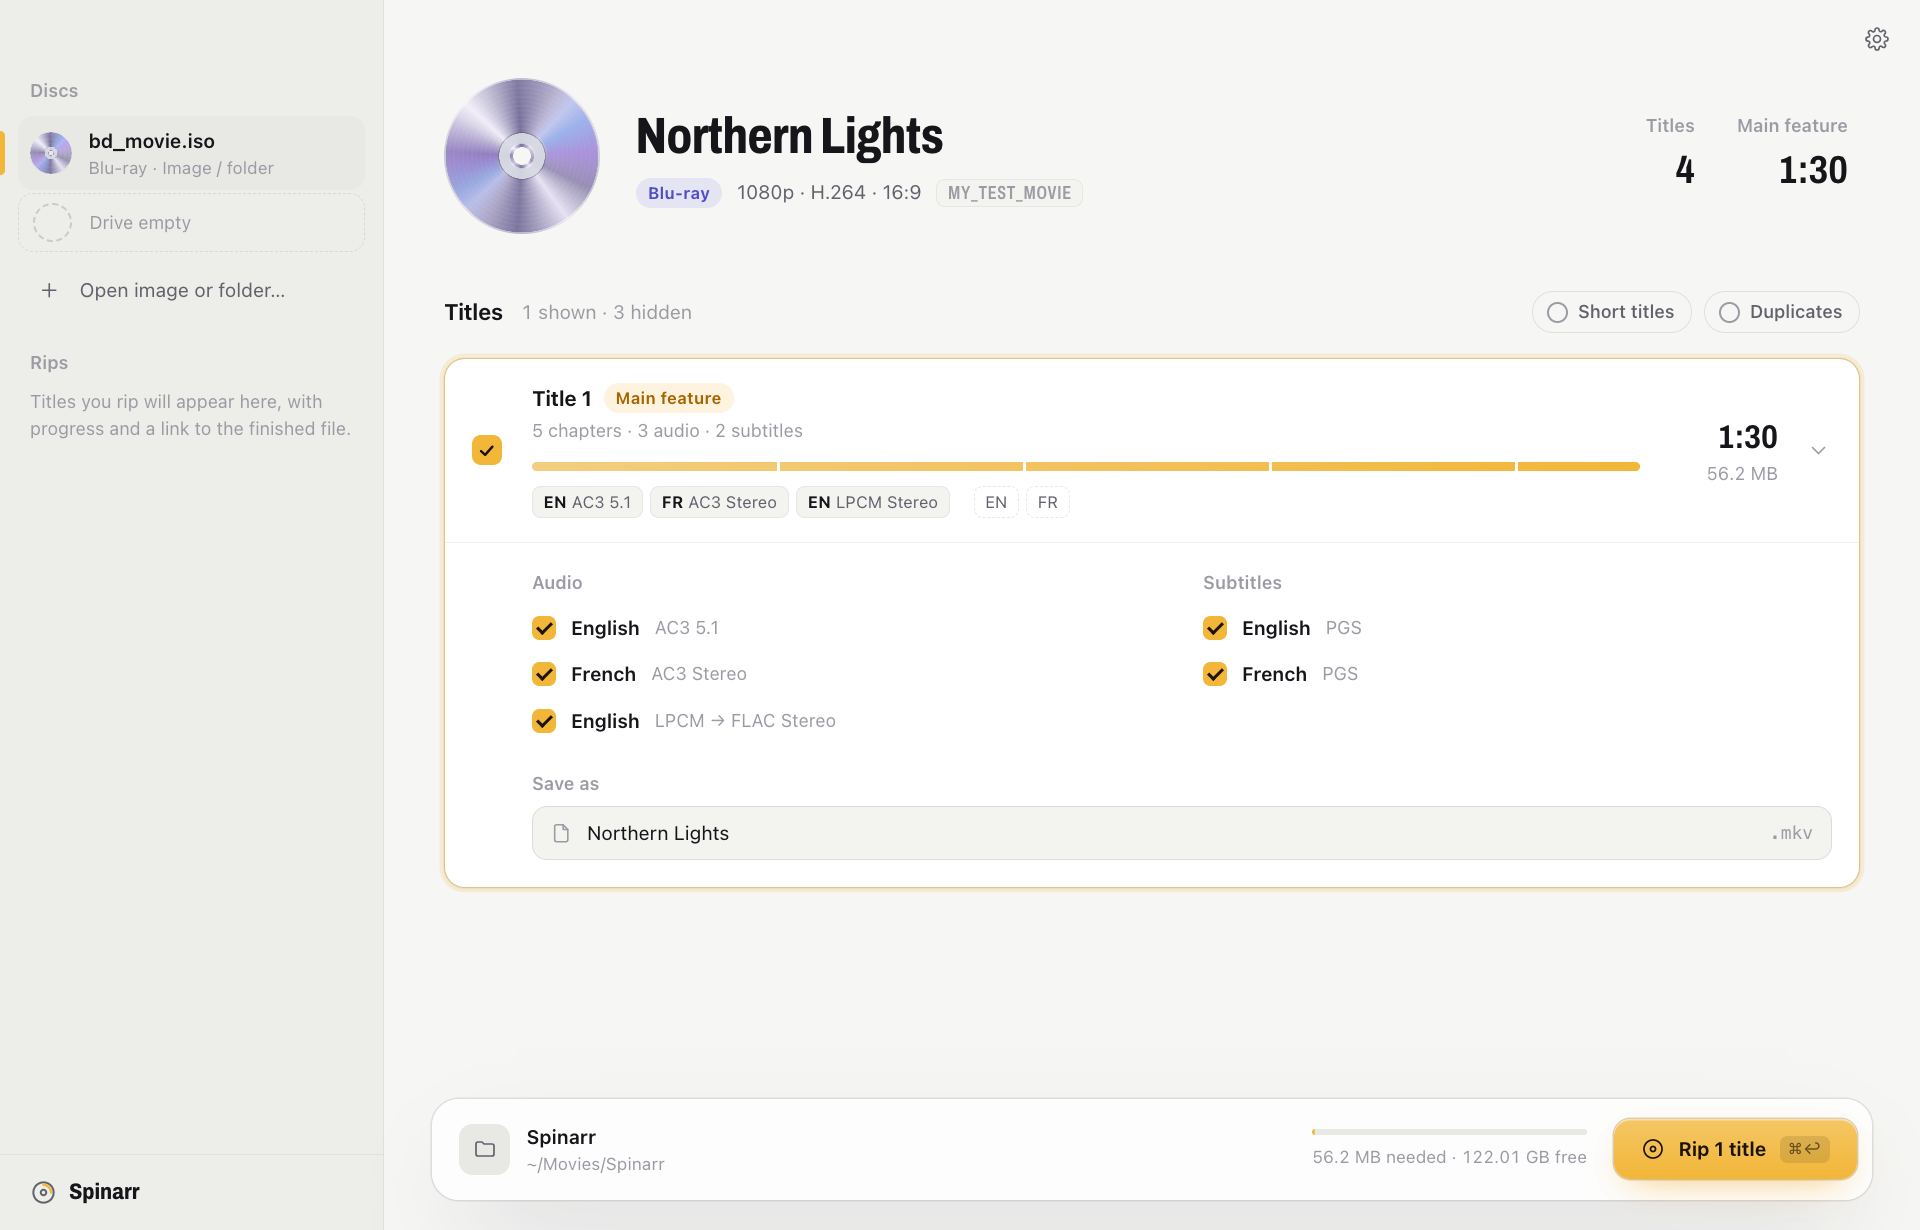
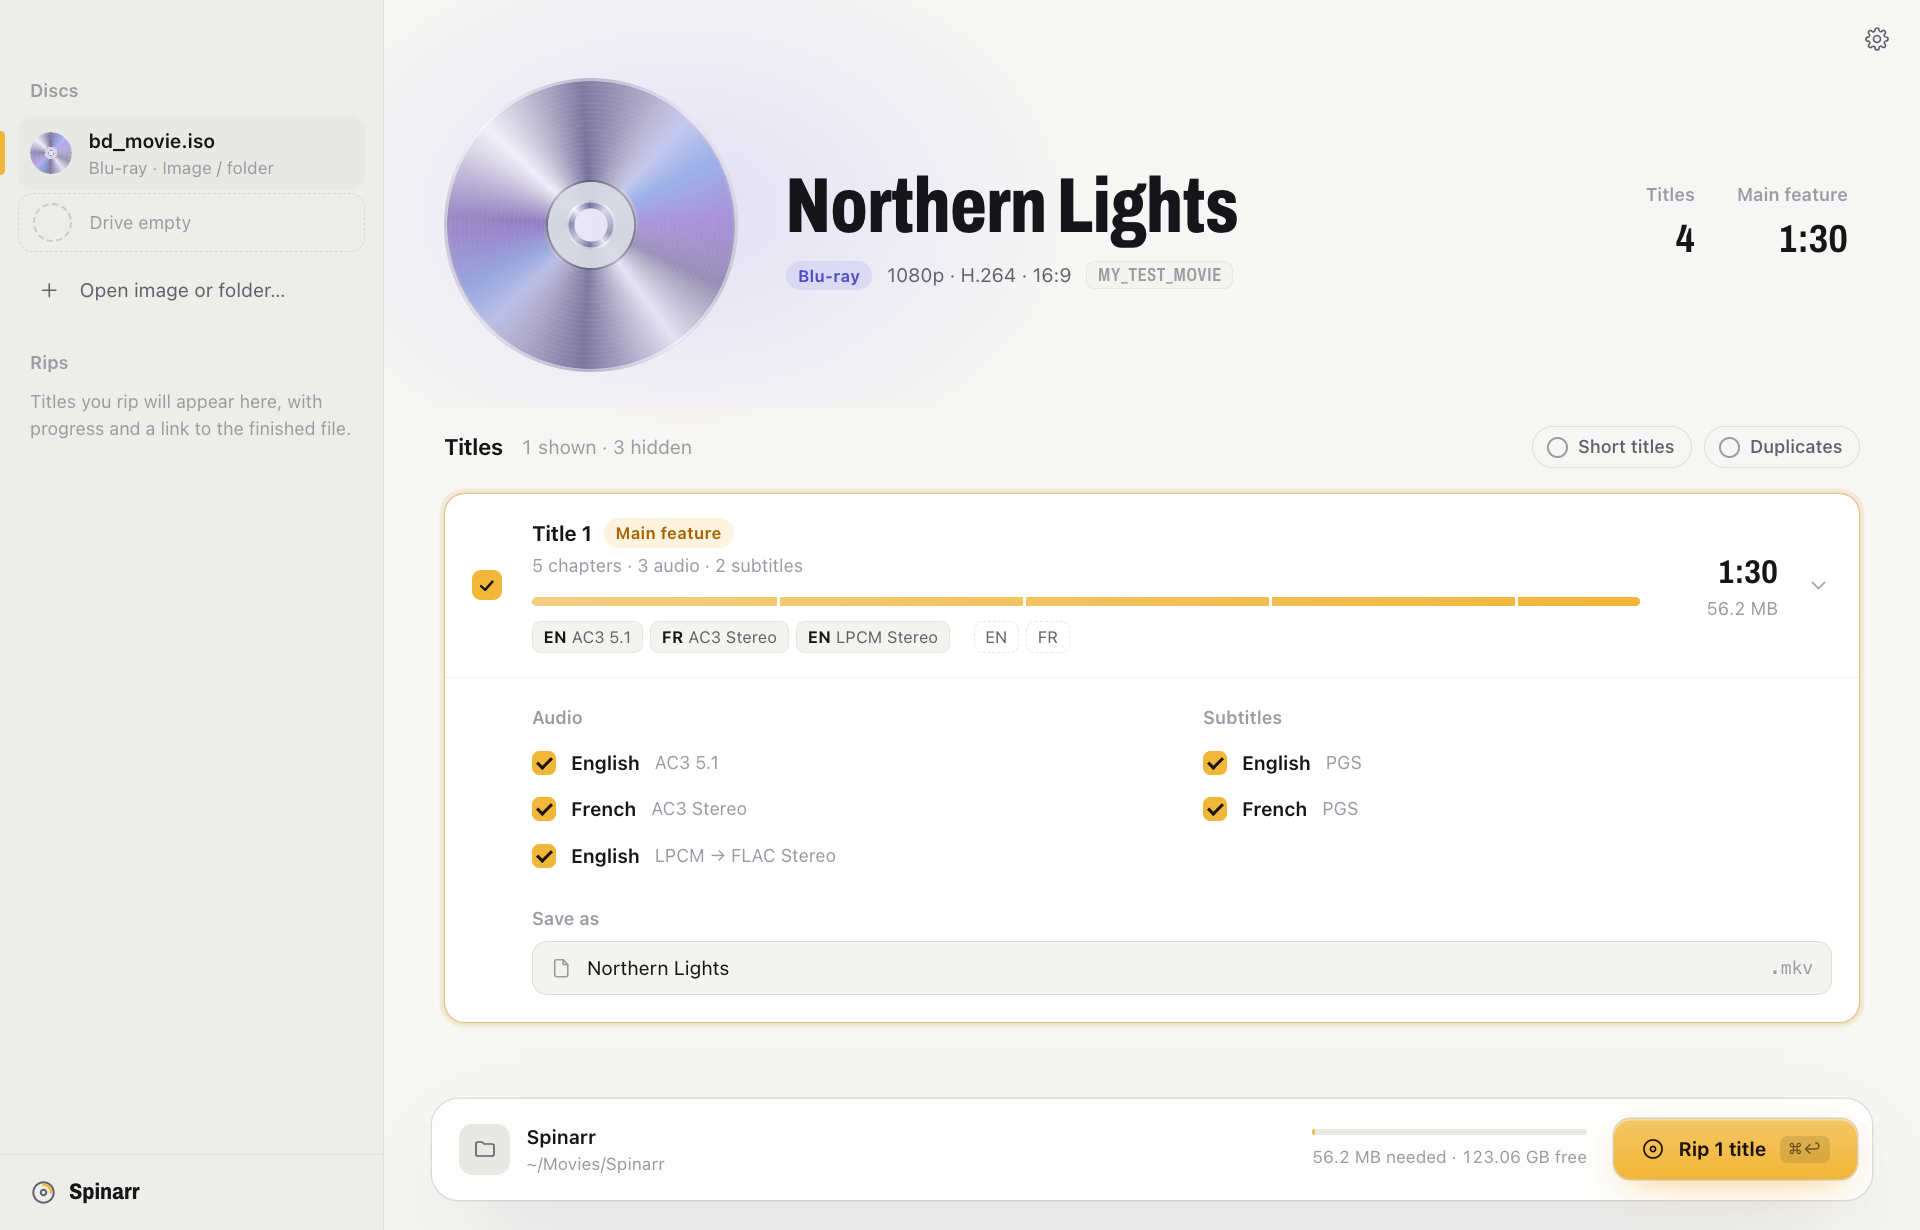
Make the disc the progress display
Discs are read from the hub outward, so while ripping the header disc fills
from the hub to the rim:
- a gold read band
- a bright laser line at the leading edge
- the unread area dimmed
- the disc spinning at 196 px

A 64 px condensed percentage with speed and time left replaces the title stats.

Also:
- bigger condensed disc titles (38 px for long names)
- a soft glow behind the header, warm for DVD and violet for Blu-ray
- a step-down for narrow windows
- regenerated README screenshots

diff --git a/app/renderer/styles.css b/app/renderer/styles.css
@@ -361,15 +361,42 @@ kbd {
    ========================================================================== */
 .scroll { flex: 1; overflow-y: auto; padding-bottom: 120px; scroll-padding-top: 64px; }
 
-.disc-head { display: flex; gap: 24px; align-items: center; padding: 52px 40px 26px; }
-.disc-head .disc { --size: 104px; }
+.disc-head { position: relative; display: flex; gap: var(--space-6); align-items: center; padding: var(--space-8) var(--space-7) var(--space-5); isolation: isolate; }
+/* the disc's mood behind the header: warm for DVD, violet for Blu-ray */
+.disc-head::before {
+  content: ""; position: absolute; z-index: -1; left: -60px; top: -40px; width: 520px; height: 360px; pointer-events: none;
+  background: radial-gradient(closest-side, color-mix(in srgb, var(--accent) 16%, transparent), transparent);
+  transition: opacity 0.6s var(--ease); opacity: 0.8;
+}
+.disc-head.bd::before { background: radial-gradient(closest-side, rgba(130, 110, 255, 0.2), transparent); }
+.disc-head.ripping::before { opacity: 1; }
+.disc-wrap { --read: 0; position: relative; flex: none; width: 196px; height: 196px; }
+.disc-head .disc { --size: 196px; }
+/* read band: from the hub (31%) outward to the rim (97%). Read area warm, laser edge bright, unread area dimmed. */
+.disc-read {
+  position: absolute; inset: 0; border-radius: 50%; pointer-events: none; opacity: 0; transition: opacity 0.4s var(--ease);
+  background: radial-gradient(circle closest-side,
+    transparent 0 31%,
+    color-mix(in srgb, var(--accent) 42%, transparent) 31% calc(31% + var(--read) * 66%),
+    #fff3d6 calc(31% + var(--read) * 66%) calc(32% + var(--read) * 66%),
+    color-mix(in srgb, var(--accent-hi) 70%, transparent) calc(32% + var(--read) * 66%) calc(33.2% + var(--read) * 66%),
+    rgba(0, 0, 0, 0.26) calc(33.2% + var(--read) * 66%) 97%,
+    transparent 97.5%);
+  -webkit-mask: radial-gradient(circle closest-side, transparent 0 11%, #000 11.6%);
+}
+.disc-head.ripping .disc-read { opacity: 1; }
+.readout { flex: none; display: flex; flex-direction: column; align-items: flex-end; gap: 2px; padding-right: var(--space-2); }
+.r-pct { font-family: var(--display); font-weight: 800; font-stretch: 70%; font-size: 64px; line-height: 0.95; color: var(--accent-text); font-variant-numeric: tabular-nums; }
+.r-sub { display: flex; flex-direction: column; align-items: flex-end; color: var(--text-2); font-size: 12.5px; font-variant-numeric: tabular-nums; }
+.r-what { color: var(--text); font-weight: 600; }
 .disc-title { flex: 1; min-width: 0; }
 .disc-title input {
   width: 100%; background: transparent; border: 1px solid transparent; border-radius: 10px;
-  font-family: var(--display); font-size: 34px; font-weight: 760; font-stretch: 78%; letter-spacing: -0.01em; line-height: 1.1;
+  font-family: var(--display); font-size: 52px; font-weight: 800; font-stretch: 72%; letter-spacing: -0.005em; line-height: 1;
   padding: 2px 10px; margin: 0 0 6px -11px; text-overflow: ellipsis;
   transition: border-color 0.15s, background 0.15s;
 }
+.disc-title input.long { font-size: 38px; }
 .disc-title input:hover { border-color: var(--line); }
 .disc-title input:focus { border-color: var(--accent-line); background: var(--surface); box-shadow: 0 0 0 4px var(--accent-soft); }
 .disc-meta { display: flex; gap: 10px; flex-wrap: wrap; align-items: center; color: var(--text-2); }
@@ -684,6 +711,10 @@ dialog::backdrop { background: var(--scrim); backdrop-filter: blur(6px); animati
 
 @media (max-width: 1100px) {
   .hero-stats { display: none; }
+  .disc-wrap { width: 140px; height: 140px; }
+  .disc-head .disc { --size: 140px; }
+  .disc-title input { font-size: 40px; }
+  .r-pct { font-size: 48px; }
   .features { grid-template-columns: repeat(3, minmax(0, 150px)); gap: 18px; }
   .cap-bar { display: none; }
 }

diff --git a/app/renderer/app.js b/app/renderer/app.js
@@ -158,15 +158,19 @@ function renderMain() {
 
   main.innerHTML = `
     <div class="scroll">
-      <header class="disc-head">
-        <div class="disc ${bd ? 'bd' : ''}"></div>
+      <header class="disc-head ${bd ? 'bd' : ''}">
+        <div class="disc-wrap" aria-hidden="true"><div class="disc ${bd ? 'bd' : ''}"></div><div class="disc-read"></div></div>
         <div class="disc-title">
-          <input id="discName" value="${esc(state.discName)}" spellcheck="false" title="Used for file names and the MKV title" aria-label="Disc name" />
+          <input id="discName" class="${state.discName.length > 22 ? 'long' : ''}" value="${esc(state.discName)}" spellcheck="false" title="Used for file names and the MKV title" aria-label="Disc name" />
           <div class="disc-meta">
             <span class="badge fmt ${bd ? 'bd' : ''}">${bd ? 'Blu-ray' : 'DVD'}</span>
             ${first ? `<span class="spec">${[first.video.standard, first.video.codec, first.video.aspect].filter((x) => x && x !== '?').map(esc).join(' · ')}</span>` : ''}
             <span class="vol" title="Volume label">${esc(d.label || '—')}</span>
           </div>
+        </div>
+        <div class="readout" role="status" aria-live="off" hidden>
+          <span class="r-pct">0%</span>
+          <span class="r-sub"><b class="r-what"></b><span class="r-eta"></span></span>
         </div>
         <div class="hero-stats">
           <div><span class="k">Titles</span><span class="v">${d.titles.length}</span></div>
@@ -279,7 +283,23 @@ function actionBar() {
 // Live rip status inside each title card, updated in place so focus and typing survive.
 function updateRipStates() {
   // The one orchestrated moment: the disc in the header spins while one of its titles rips.
-  $('.disc-head')?.classList.toggle('ripping', state.queue.some((j) => j.source === state.source && j.state === 'ripping'));
+  // The disc is the progress display: discs are read from the hub outward, so the read
+  // band grows from the hub to the rim while the header disc spins.
+  const head = $('.disc-head');
+  const live = state.queue.find((j) => j.source === state.source && j.state === 'ripping');
+  if (head) {
+    head.classList.toggle('ripping', !!live);
+    $('.readout', head).hidden = !live;
+    $('.hero-stats', head).hidden = !!live;
+    const p = live ? Math.max(0, Math.min(1, live.progress || 0)) : 0;
+    $('.disc-wrap', head).style.setProperty('--read', p.toFixed(4));
+    if (live) {
+      const elapsed = (Date.now() - live.startedAt) / 1000;
+      $('.r-pct', head).textContent = `${Math.floor(p * 100)}%`;
+      $('.r-what', head).textContent = `Reading title ${live.title}`;
+      $('.r-eta', head).textContent = [live.speed ? `${live.speed.toFixed(1)}×` : '', p > 0.01 ? `${fmtEta((elapsed * (1 - p)) / p)} left` : 'starting'].filter(Boolean).join(', ');
+    }
+  }
   for (const row of $$('.title-row')) {
     const j = jobFor(+row.dataset.title);
     const st = j?.state;
@@ -587,7 +607,7 @@ document.addEventListener('change', (e) => {
 
 document.addEventListener('input', (e) => {
   const el = e.target;
-  if (el.id === 'discName') { state.discName = el.value; refreshFileNames(); }
+  if (el.id === 'discName') { state.discName = el.value; el.classList.toggle('long', el.value.length > 22); refreshFileNames(); }
   if (el.dataset.filename) state.fileNames.set(+el.dataset.filename, el.value);
 });
 

diff --git a/design-notes.md b/design-notes.md
@@ -25,3 +25,19 @@ A running journal for Spinarr's interface, so each design pass builds on the las
 - **Next time:**
   - Move the remaining raw px spacing onto `--space-*`.
   - Consider an optional Y2K skin behind `data-skin` (see the UI directions canvas).
+
+## 2026-10-09 · Standout pass
+- **Feedback:** "looks nice but not a standout." The identity pass was tidy, but nothing on screen was unique to a disc ripper.
+- **Kept, the signature move:** the disc is the progress display. Discs are read from the hub outward, so while ripping:
+  - a gold "read" band grows from the hub to the rim
+  - a bright laser line marks the leading edge
+  - the unread area is dimmed
+  - the 196 px disc spins in the header
+  - a 64 px condensed percentage replaces the title stats
+- **Also kept:**
+  - The title at 52 px condensed (38 px when longer than 22 characters).
+  - A soft glow behind the header: warm for DVD, violet for Blu-ray.
+  - At 1100 px and narrower, the disc and type scale down.
+- **Next time:**
+  - The title cards could echo the disc, for example a small read ring instead of the bar for the active title.
+  - The empty state could show a disc tray sliding in.
